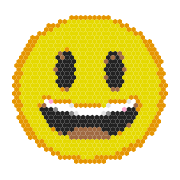
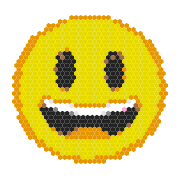
feat: template colours are matched by eye in OKLab, not raw RGB

diff --git a/packages/template/src/nearest-color.ts b/packages/template/src/nearest-color.ts
@@ -14,12 +14,40 @@ const rgbOf = (color: HexCodeColor) => {
   return rgb;
 };
 
-const squaredDistance = ({ from, to }: { from: Rgb; to: Rgb }) =>
-  (from.red - to.red) ** 2 + (from.green - to.green) ** 2 + (from.blue - to.blue) ** 2;
+type Oklab = [lightness: number, greenRed: number, blueYellow: number];
+
+const linearOf = (channel: number) => {
+  const value = channel / 255;
+  const linear = value <= 0.04045 ? value / 12.92 : ((value + 0.055) / 1.055) ** 2.4;
+
+  return linear;
+};
+
+// https://bottosson.github.io/posts/oklab/
+const oklabOf = ({ red, green, blue }: Rgb) => {
+  const [r, g, b] = [red, green, blue].map(linearOf) as [number, number, number];
+  const l = Math.cbrt(0.4122214708 * r + 0.5363325363 * g + 0.0514459929 * b);
+  const m = Math.cbrt(0.2119034982 * r + 0.6806995451 * g + 0.1073969566 * b);
+  const s = Math.cbrt(0.0883024619 * r + 0.2817188376 * g + 0.6299787005 * b);
+  const oklab: Oklab = [
+    0.2104542553 * l + 0.793617785 * m - 0.0040720468 * s,
+    1.9779984951 * l - 2.428592205 * m + 0.4505937099 * s,
+    0.0259040371 * l + 0.7827717662 * m - 0.808675766 * s,
+  ];
+
+  return oklab;
+};
+
+const squaredDistance = ({ from, to }: { from: Oklab; to: Oklab }) =>
+  from.reduce((sum, value, index) => sum + (value - (to[index] ?? 0)) ** 2, 0);
 
 export const nearestColor: NearestColor = ({ rgb, palette }) => {
+  const target = oklabOf(rgb);
   const [nearest] = palette
-    .map((color) => ({ color, distance: squaredDistance({ from: rgb, to: rgbOf(color) }) }))
+    .map((color) => ({
+      color,
+      distance: squaredDistance({ from: target, to: oklabOf(rgbOf(color)) }),
+    }))
     .sort((left, right) => left.distance - right.distance);
   if (!nearest) throw new Error("Palette is empty");
 

diff --git a/packages/template/src/nearest-color.test.ts b/packages/template/src/nearest-color.test.ts
@@ -8,8 +8,15 @@ describe("nearestColor", () => {
     expect(nearestColor({ rgb: { red: 229, green: 0, blue: 0 }, palette })).toBe("#e50000");
   });
 
-  test("returns the palette colour closest in RGB", () => {
+  test("returns the closest palette colour", () => {
     expect(nearestColor({ rgb: { red: 200, green: 30, blue: 20 }, palette })).toBe("#e50000");
     expect(nearestColor({ rgb: { red: 40, green: 40, blue: 40 }, palette })).toBe("#000000");
+  });
+
+  test("measures closeness as the eye sees it, not in raw RGB", () => {
+    const tongueSalmon = { red: 237, green: 119, blue: 112 };
+    const brownOrOrange = ["#a06a42", "#e59500"];
+
+    expect(nearestColor({ rgb: tongueSalmon, palette: brownOrOrange })).toBe("#e59500");
   });
 });

diff --git a/docs/ARCHITECTURE.md b/docs/ARCHITECTURE.md
@@ -70,6 +70,6 @@ alongside the icons and share image from `apps/web/public/`.
 ## Template
 
 😀 rendered locally from the Noto Color Emoji font to `packages/template/source/`. The template
-samples the PNG at each hex centre: transparent centres are left out, the rest take the nearest
-palette colour (the 16 colours of r/place 2017). `bun run generate` in `packages/template` writes
+samples the PNG at each hex centre: transparent centres are left out, the rest take the palette
+colour nearest by eye, measured in OKLab (the 16 colours of r/place 2017). `bun run generate` in `packages/template` writes
 the JSON, which is committed.
